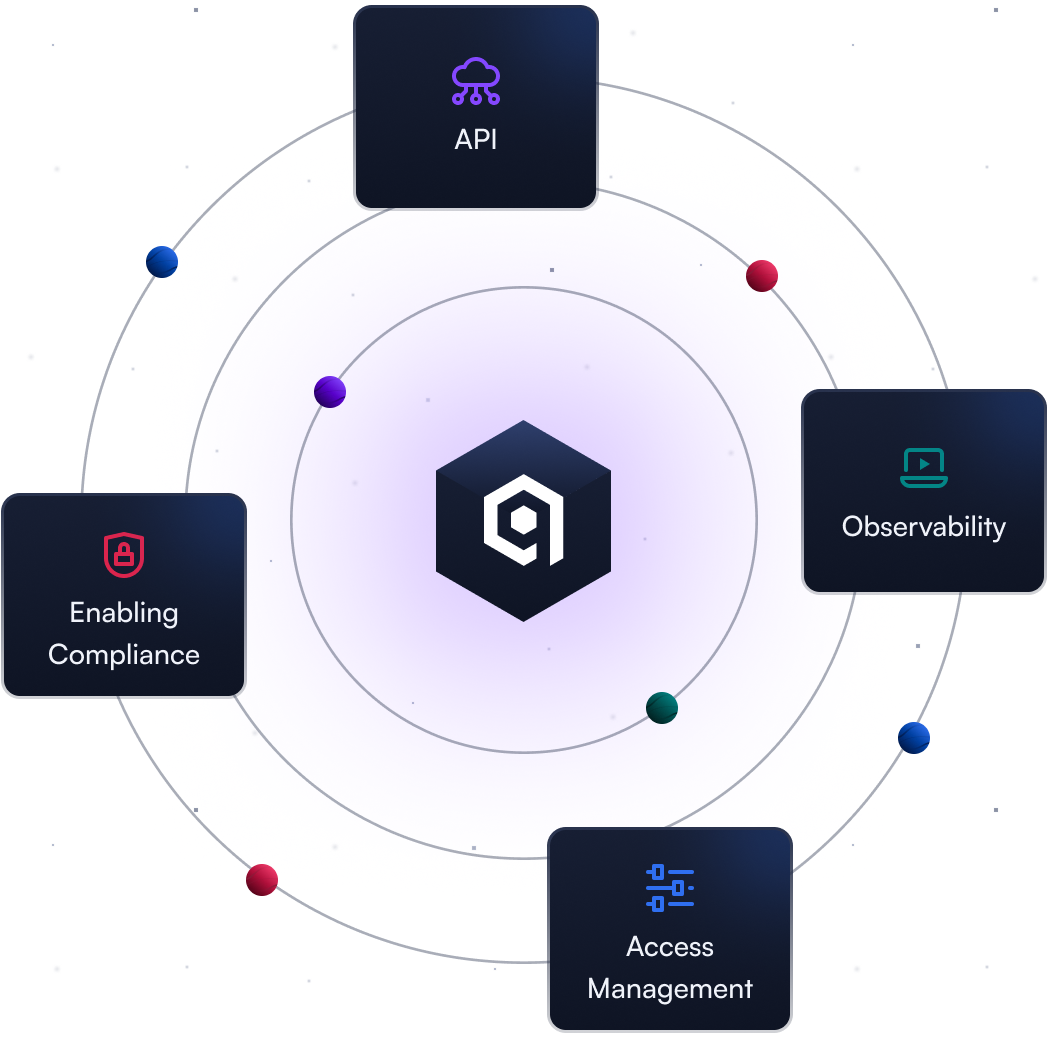
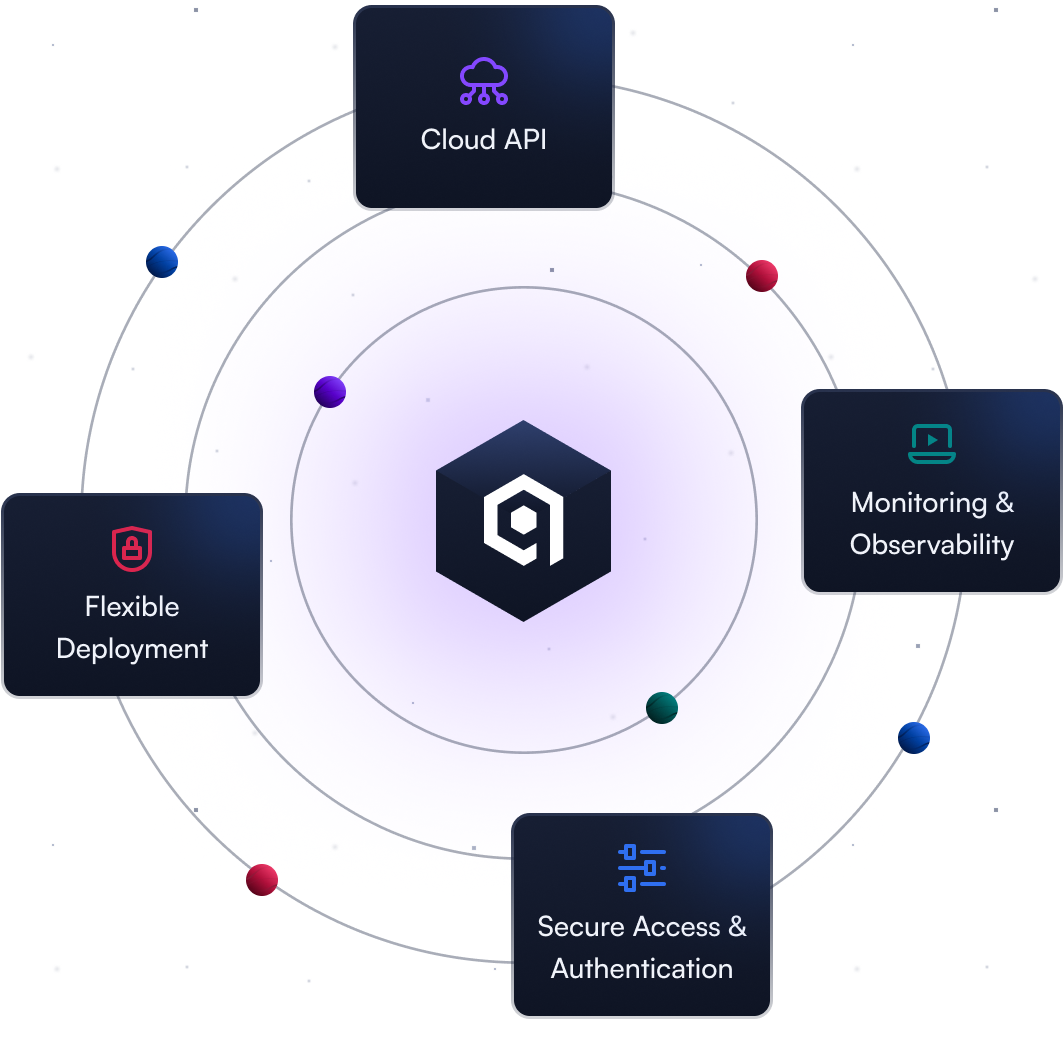
content update

diff --git a/qdrant-landing/content/enterprise-solutions/enterprise-solutions-capabilities.md b/qdrant-landing/content/enterprise-solutions/enterprise-solutions-capabilities.md
@@ -2,40 +2,40 @@
 title: Effectively Scale your Enterprise AI Applications
 cards:
 - id: 0
-  title: Enabling Compliance
-  content: Ensure customer trust by safeguarding their data with top-tier security measures.<br><br>We provide SOC2 Type 2 Certification, Hybrid Cloud deployments for highly regulated environments, and Private Cloud options to give you complete control and ensure data sovereignty.
+  title: Flexible deployment options. Compliance ready.
+  content: Ensure customer trust by safeguarding their data with top-tier security measures. We provide SOC2 Type 2 Certification, Hybrid Cloud deployments for highly regulated environments, and Private Cloud options to give you complete control and ensure data sovereignty.
   link:
     text: Learn More
     url: /blog/qdrant-soc2-type2-audit/
   image:
     src: /img/enterprise-solutions-capabilities/enabling-compliance.svg
-    alt: Enabling Compliance
+    alt: Compliance ready
 - id: 1
-  title: Identity and Access Management
-  content: Fundamental for maintaining sensitive data within the database. We offer Enterprise SSO, Cloud RBAC (coming soon), and Database API Keys with RBAC.
+  title: Secure Access & Authentication
+  content: Control who gets in and what they can do with Cloud RBAC, SSO, and granular <br class="d-none d-md-inline"/>Database API Keys.
   link:
     text: Learn More
     url: /documentation/cloud/qdrant-cloud-setup/#enterprise-single-sign-on-sso
   image:
     src: /img/enterprise-solutions-capabilities/identity-and-access-management.svg
-    alt: Identity and Access Management
+    alt: Secure Access & Authentication
 - id: 2
-  title: API
-  content: Offers a flexible, scalable solution to automate tasks and seamlessly integrate our database into custom applications.
+  title: Cloud API for Simplified Management
+  content: Automate and scale with API-driven control and Terraform support.
   link:
     text: Learn More
     url: /documentation/cloud/authentication/
   image:
     src: /img/enterprise-solutions-capabilities/api.svg
-    alt: API
+    alt: Cloud API
 - id: 3
-  title: Observability
-  content: Deeply understand your database application performance to identify and resolve issues effectively.
+  title: Advanced Monitoring & Observability
+  content: Stay ahead of issues with Prometheus/OpenMetrics, Datadog, Grafana, and other third-party integrations.
   link:
     text: Learn More
     url: /documentation/guides/monitoring/
   image:
     src: /img/enterprise-solutions-capabilities/observability.svg
-    alt: Observability
+    alt: Advanced Monitoring & Observability
 sitemapExclude: true
 ---
